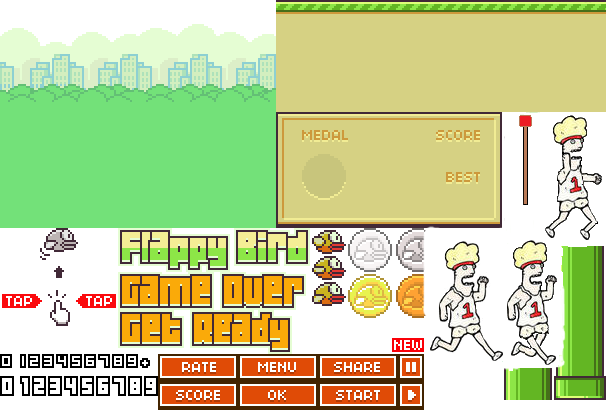
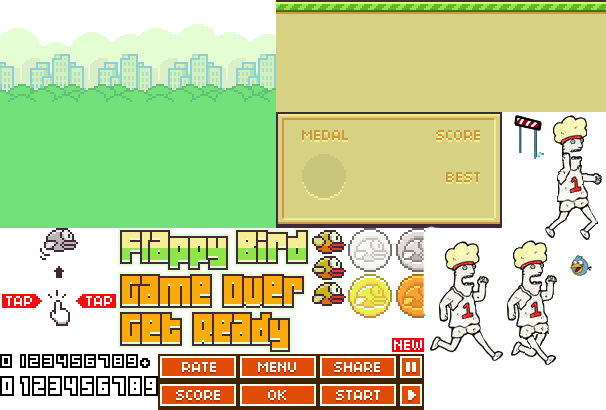
nuevo

Changed region(s): [[0.8317, 0.5854, 1.0, 0.9951], [0.8317, 0.2634, 0.8911, 0.4976]]

diff --git a/game.js b/game.js
@@ -149,7 +149,7 @@ var
 
                     var cx = Math.min(Math.max(dog.x, p.x), p.x + p.width);
                     var cy1 = Math.min(Math.max(dog.y, p.y), p.y + p.height);
-                    var cy2 = Math.min(Math.max(dog.y, p.y + p.height + 80), p.y + 2 * p.height - 80);
+                    var cy2 = Math.min(Math.max(dog.y, p.y + p.height + 80), p.y + 2 * p.height + 100);
 
                     var dx = dog.x - cx;
                     var dy1 = dog.y - cy1;
@@ -180,16 +180,10 @@ var
         },
 
         draw: function (ctx) {
-            var contAux;
             for (var i = 0, len = this._pipes.length; i < len; i++) {
                 var p = this._pipes[i];
-                //s_pipeSouth.draw(ctx, p.x, p.y);
+                s_pipeSouth.draw(ctx, p.x, p.y+30);
                 s_pipeNorth.draw(ctx, p.x, p.y + 80 + p.height);
-                contAux++;
-                if(contAux > 5){
-                    s_buttons.Share.draw(ctx, p.x, p.y + 80 + p.height);
-                    contAux=0;
-                }
             }
 
         }

diff --git a/sprite.js b/sprite.js
@@ -49,7 +49,9 @@ function initSprites(img) {
 
     //s_pipeNorth = new Sprite(img, 251, 0, 10, 200);
     s_pipeNorth = new Sprite(img, 253, 57, 20, 35);
-    s_pipeSouth = new Sprite(img, 277, 0, 10, 200);
+    //s_pipeSouth = new Sprite(img, 277, 0, 10, 200);
+    //pajaro
+    s_pipeSouth = new Sprite(img, 283, 126, 14, 14);
 
     s_text = {
         Flappydog: new Sprite(img, 59, 114, 96, 22),
